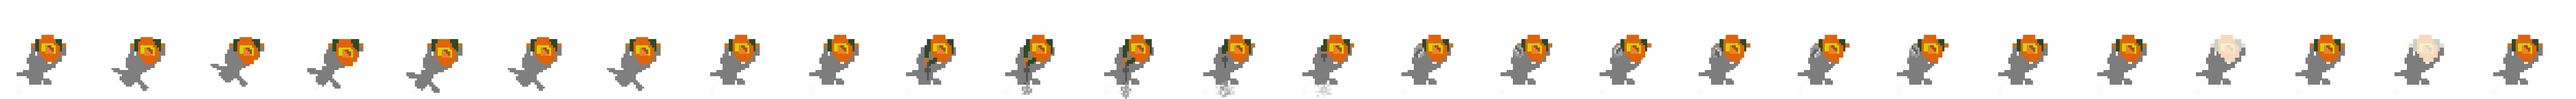
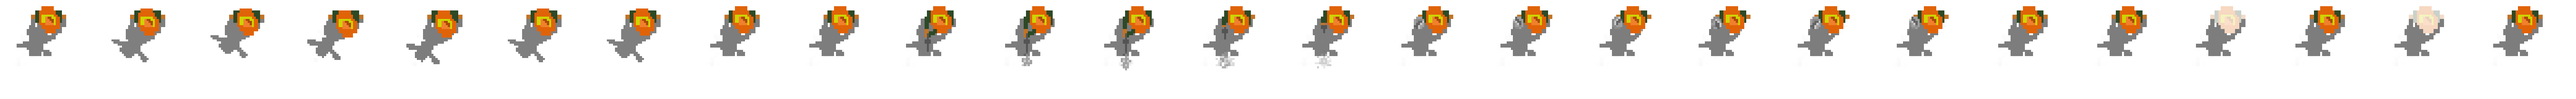
renamed project to reflexerado. fixed bullet shoot starting point. fixed yellow animation to be equal to red in terms of distance from beginning of sprite.

Changed region(s): [[0.0, 0.0625, 1.0, 0.9688]]

diff --git a/game/game.js b/game/game.js
@@ -1,6 +1,6 @@
-var debug = false;
+var debug = true;
 
-Shootme.Game = function (game) {
+Reflexerado.Game = function (game) {
 
     this.startNewRound;
 
@@ -30,7 +30,7 @@ Shootme.Game = function (game) {
 };
 
 var keycounter = 0;
-Shootme.Game.prototype = {
+Reflexerado.Game.prototype = {
 
     init: function (data) {
         this.input.enabled = false;
@@ -76,7 +76,7 @@ Shootme.Game.prototype = {
         var bg = this.add.image(0, 0, 'bg');
 
         //player animations
-        this.views.p1 = this.add.sprite(this.world.centerX - 96, 16, 'p1_animations');
+        this.views.p1 = this.add.sprite(this.world.centerX - 96, 96, 'p1_animations');
         this.views.p1.animations.add('idle', Phaser.ArrayUtils.numberArray(0, 8), 10, true);
         this.views.p1.animations.add('shoot', Phaser.ArrayUtils.numberArray(9, 21), 10, false);
         this.views.p1.animations.add('hit', Phaser.ArrayUtils.numberArray(22, 26), 10, false);
@@ -89,10 +89,12 @@ Shootme.Game.prototype = {
         //heart animation
         this.heart = this.add.sprite(0, 0, 'heart_animation');
         this.heart.animations.add('kill', Phaser.ArrayUtils.numberArray(0, 3), 5, false);
+        this.heart.visible = false;
 
         //bullet
         this.bullet = this.add.image(0, 0, 'bullet');
         this.bullet.scale.setTo(0.5, 0.65);
+        this.bullet.anchor.setTo(0.5, 0.5);
         this.bullet.visible = false;
 
         //controls
@@ -281,7 +283,7 @@ Shootme.Game.prototype = {
         var posEnd = this.views[loser].position;
 
         this.bullet.position.x = pos.x + this.views[winner].width / 2;
-        this.bullet.position.y = pos.y;
+        this.bullet.position.y = pos.y + this.views[winner].height / 3; // workaround for correct bullet starting point.
         this.bullet.visible = true;
         this.add.tween(this.bullet).to(
             {
@@ -298,7 +300,10 @@ Shootme.Game.prototype = {
 
         this.heart.position.x = pos.x;
         this.heart.position.y = pos.y;
-        this.heart.animations.play('kill');
+        this.heart.visible = true;
+        this.heart.animations.play('kill').onComplete.add(function() {
+            this.heart.visible = false;
+        }, this);
     },
 
     resetRoundParameters: function () {

diff --git a/index.html b/index.html
@@ -9,7 +9,7 @@
     <meta http-equiv="expires" content="0" />
     <meta http-equiv="expires" content="Tue, 01 Jan 1980 1:00:00 GMT" />
     <meta http-equiv="pragma" content="no-cache" />
-    <title>shootme</title>
+    <title>Reflexerado</title>
 
 </head>
 
@@ -28,14 +28,15 @@
             //var game = new Phaser.Game(640, 512, Phaser.AUTO, '');
             var game = new Phaser.Game(1280, 1024, Phaser.AUTO, '');
 
-            game.state.add('Boot', Shootme.Boot);
-            game.state.add('Preloader', Shootme.Preloader);
-            game.state.add('MainMenu', Shootme.MainMenu);
-            game.state.add('Game', Shootme.Game);
+            game.state.add('Boot', Reflexerado.Boot);
+            game.state.add('Preloader', Reflexerado.Preloader);
+            game.state.add('MainMenu', Reflexerado.MainMenu);
+            game.state.add('Game', Reflexerado.Game);
 
             game.state.start('Boot');
         };
     </script>
+    <h1>Reflexerado</h1>
 <p>p1: q,s,y - p2: i,j,m</p>
 </body>
 

diff --git a/game/preloader.js b/game/preloader.js
@@ -1,4 +1,4 @@
-Shootme.Preloader = function (game) {
+Reflexerado.Preloader = function (game) {
 
     this.background = null;
     this.preloadBar = null;
@@ -7,7 +7,7 @@ Shootme.Preloader = function (game) {
 
 };
 
-Shootme.Preloader.prototype = {
+Reflexerado.Preloader.prototype = {
 
     preload: function () {
 

diff --git a/game/mainMenu.js b/game/mainMenu.js
@@ -1,4 +1,4 @@
-Shootme.MainMenu = function (game) {
+Reflexerado.MainMenu = function (game) {
 
     this.music = null;
     this.playButton = null;
@@ -22,7 +22,7 @@ Shootme.MainMenu = function (game) {
 
 };
 
-Shootme.MainMenu.prototype = {
+Reflexerado.MainMenu.prototype = {
 
     create: function () {
 

diff --git a/game/boot.js b/game/boot.js
@@ -1,9 +1,9 @@
-Shootme = {};
+Reflexerado = {};
 
-Shootme.Boot = function (game) {
+Reflexerado.Boot = function (game) {
 };
 
-Shootme.Boot.prototype = {
+Reflexerado.Boot.prototype = {
 
     preload: function () {
 
